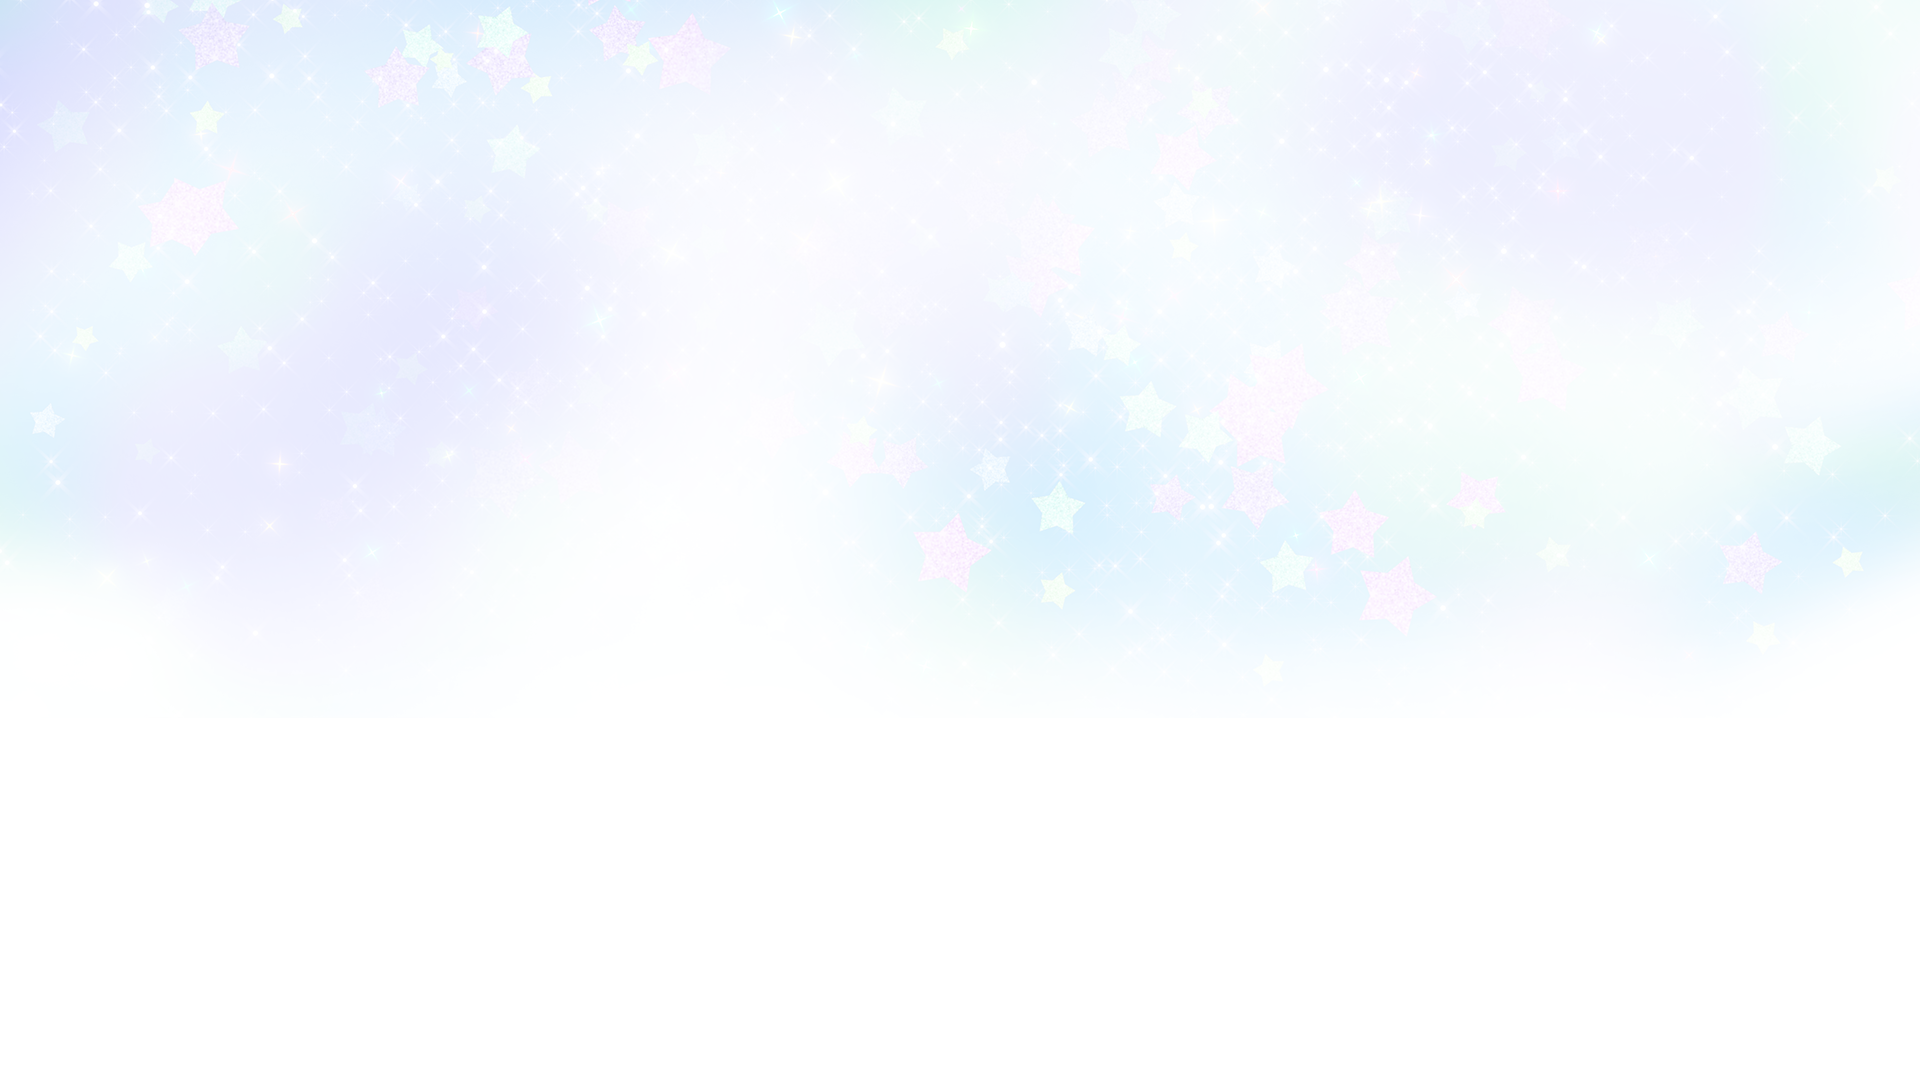
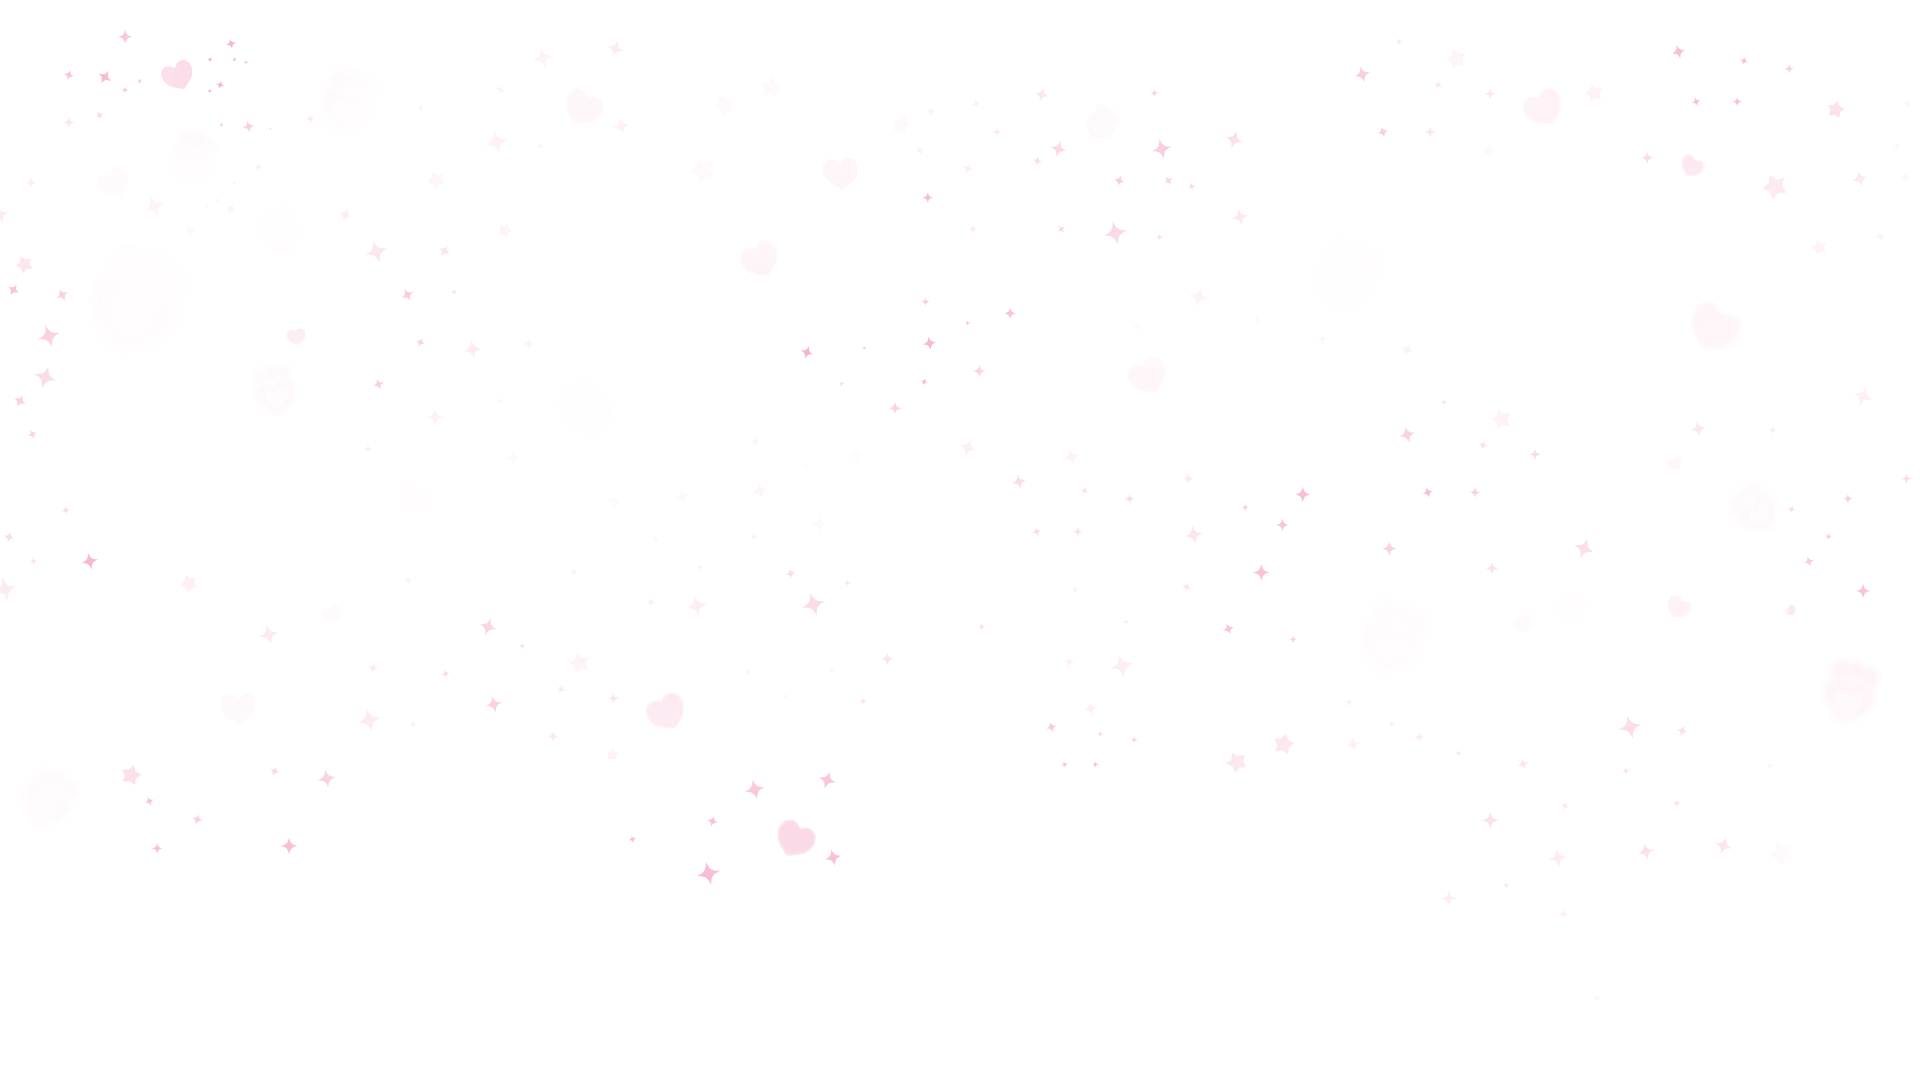
Updates

diff --git a/index.html b/index.html
@@ -202,7 +202,7 @@
                 <img class="episode-card__image" src="assets/img/episode-1.png" width="392" height="221" loading="lazy" alt="Gabby, DJ Catnip and Kitty Fairy in a scene from the episode">
                 <div class="episode-card__body">
                   <div class="episode-card__header">
-                    <p class="t-overline c-accent">Season 9, Episode 1</p>
+                    <p class="episode-card__meta">Season 9, Episode 1</p>
                     <h3 class="t-h4 c-primary">Lorem ipsum dolor sit</h3>
                   </div>
                   <p class="t-body c-primary">Lorem ipsum dolor sit amet consectetur. Eros interdum egestas euismod mi metus ipsum nec nulla sit. A suscipit nunc pellentesque tristique in in.</p>
@@ -213,7 +213,7 @@
                 <img class="episode-card__image" src="assets/img/episode-2.png" width="392" height="221" loading="lazy" alt="Gabby and friends celebrating with a rainbow cake">
                 <div class="episode-card__body">
                   <div class="episode-card__header">
-                    <p class="t-overline c-accent">Season 9, Episode 1</p>
+                    <p class="episode-card__meta">Season 9, Episode 1</p>
                     <h3 class="t-h4 c-primary">Lorem ipsum dolor sit</h3>
                   </div>
                   <p class="t-body c-primary">Lorem ipsum dolor sit amet consectetur. Eros interdum egestas euismod mi metus ipsum nec nulla sit. A suscipit nunc pellentesque tristique in in.</p>
@@ -224,7 +224,7 @@
                 <img class="episode-card__image" src="assets/img/episode-3.png" width="392" height="221" loading="lazy" alt="Gabby dancing with the kitties in the garden">
                 <div class="episode-card__body">
                   <div class="episode-card__header">
-                    <p class="t-overline c-accent">Season 9, Episode 1</p>
+                    <p class="episode-card__meta">Season 9, Episode 1</p>
                     <h3 class="t-h4 c-primary">Lorem ipsum dolor sit</h3>
                   </div>
                   <p class="t-body c-primary">Lorem ipsum dolor sit amet consectetur. Eros interdum egestas euismod mi metus ipsum nec nulla sit. A suscipit nunc pellentesque tristique in in.</p>
@@ -249,7 +249,7 @@
           <img class="art__item" src="assets/art/stars-r.png" alt="" style="--r:126px;--t:404px;--w:52px">
           <img class="art__item" src="assets/art/bubble.png" alt="" style="--c:430px;--t:463px;--w:92px" data-hide="tablet">
           <img class="art__item" src="assets/art/star-gold-r.png" alt="" style="--c:435px;--t:459px;--w:30px;--rot:-18.12deg" data-hide="tablet">
-          <img class="art__item" src="assets/art/blue-cat.png" alt="" style="--l:95px;--t:539px;--w:75px;--rot:-14.05deg" data-hide="mobile">
+          <img class="art__item" src="assets/art/blue-cat.png" alt="" style="--l:93px;--t:505px;--w:75px;--rot:-14.05deg" data-hide="mobile">
           <img class="art__item" src="assets/art/clouds-puffy.png" alt="" style="--l:31px;--t:544px;--w:267px" data-hide="mobile">
           <img class="art__item" src="assets/art/star-gold-middle.png" alt="" style="--l:298px;--t:1035px;--w:59px;--rot:-18.24deg" data-hide="mobile">
         </div>

diff --git a/css/sections.css b/css/sections.css
@@ -7,9 +7,9 @@
    ========================================================================== */
 
 :root {
-  --bkg-hero:       linear-gradient(180deg, #7362e3 0%, #a376e7 36%, #c391f0 72%, #e79af2 100%);
-  --bkg-events:     linear-gradient(180deg, #e79af2 0%, #fca5f4 12%, #feb2e0 45%, #ffbfd0 100%);
-  --bkg-video:      linear-gradient(180deg, #ffbfd0 0%, #ffc8b8 45%, #fbee7a 82%, #fbf06f 100%);
+  --bkg-hero:       linear-gradient(180deg, #5a3fd8 0%, #7f5ae2 30%, #b47ced 66%, #dc93f2 100%);
+  --bkg-events:     linear-gradient(180deg, #dc93f2 0%, #f6a2f1 22%, #ffb4d6 55%, #ffd2a2 100%);
+  --bkg-video:      linear-gradient(180deg, #ffd2a2 0%, #fde28a 35%, #fbec76 70%, #fbf06f 100%);
   --bkg-episodes:   linear-gradient(180deg, #fbf06f 0%, #f6f66e 40%, #d8f482 62%, #a9f1a2 100%);
   --bkg-characters: linear-gradient(180deg, #a9f1a2 0%, #88f2bd 37%, #6fe3ea 60%, #6ce1f9 100%);
   --bkg-apps:       linear-gradient(180deg, #6ce1f9 0%, #6ccefe 52%, #70c0fe 100%);
@@ -178,7 +178,7 @@
 .dropdown::before { /* invisible bridge so hover survives the 12px gap */
   content: ""; position: absolute; left: 0; right: 0; top: -14px; height: 14px;
 }
-.dropdown a:hover { color: var(--text-primary); text-decoration: underline; text-underline-offset: 4px; }
+.dropdown a:hover { color: var(--text-primary); }
 
 /* Collapsed navigation (menu bar no longer fits) */
 @media (max-width: 1239px) {
@@ -230,6 +230,15 @@
    ========================================================================== */
 .hero {
   --bkg: var(--bkg-hero);
+}
+.hero::before { /* Bkg Img */
+  content: "";
+  position: absolute;
+  inset: 0;
+  z-index: -1;
+  background: url("../assets/art/bkg-stars.png") center top / max(100%, 1680px) auto no-repeat;
+  opacity: 0.375;
+  pointer-events: none;
 }
 .hero__inner {
   --container-max: var(--container-wide);
@@ -403,6 +412,7 @@
 .video-player__play:hover { transform: translate(-50%, -50%) scale(1.05); }
 .video-player__play img { width: 100%; height: 100%; }
 .video-frame__overline { margin-top: 6px; }
+@media (max-width: 767px) { .video-frame__overline { margin-top: var(--px-16); } }
 .video-frame__title { max-width: 428px; }
 
 @media (max-width: 767px) {
@@ -450,6 +460,12 @@
 }
 .episode-card__body { display: flex; flex-direction: column; align-items: flex-start; gap: var(--px-24); }
 .episode-card__header { display: flex; flex-direction: column; gap: var(--px-12); }
+.episode-card__meta { /* Figma: Montserrat Bold 17/25 — off the type scale, matched exactly */
+  font-size: 17px;
+  line-height: 25px;
+  font-weight: 700;
+  color: var(--text-accent);
+}
 
 /* ==========================================================================
    Characters

diff --git a/css/tokens.css b/css/tokens.css
@@ -108,8 +108,11 @@
   --gutter: var(--px-24);       /* page side padding once the viewport is narrower than a container */
 }
 
-/* ---------- Mobile mode (Typography + Radius collections) ---------- */
-@media (max-width: 767px) {
+/* ---------- Mobile mode: Radius collection ----------
+   Radius switches earlier than type (≤1099px, when panels stack) because
+   the desktop radii (up to 120px) read too round on single-column panels.
+   Figma keeps the two modes independent, so this is allowed. */
+@media (max-width: 1099px) {
   :root {
     --radius-xs: var(--px-9);
     --radius-sm: var(--px-12);
@@ -120,7 +123,12 @@
     --radius-3xl: var(--px-40);
     --radius-4xl: var(--px-50);
     --radius-5xl: var(--px-60);
+  }
+}
 
+/* ---------- Mobile mode: Typography collection ---------- */
+@media (max-width: 767px) {
+  :root {
     --type-h1-size: var(--px-36); --type-h1-lh: var(--px-40); --type-h1-track: -0.5px;
     --type-h2-size: var(--px-32); --type-h2-lh: var(--px-40); --type-h2-track: -0.5px;
     --type-h3-size: var(--px-28); --type-h3-lh: var(--px-36); --type-h3-track: -0.25px;
